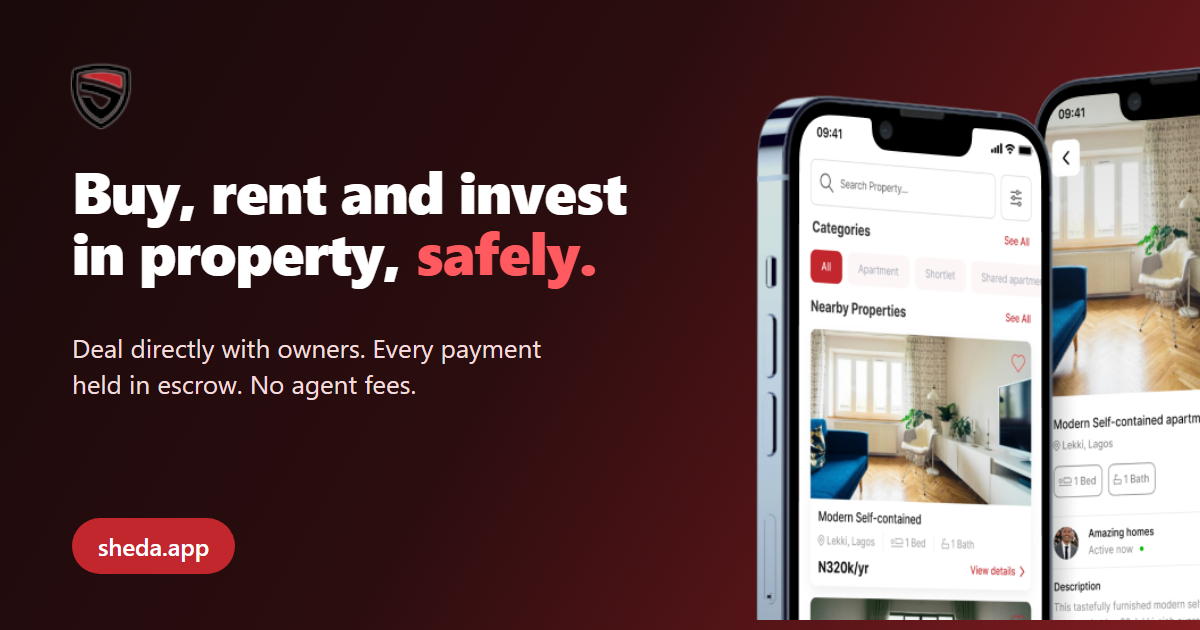
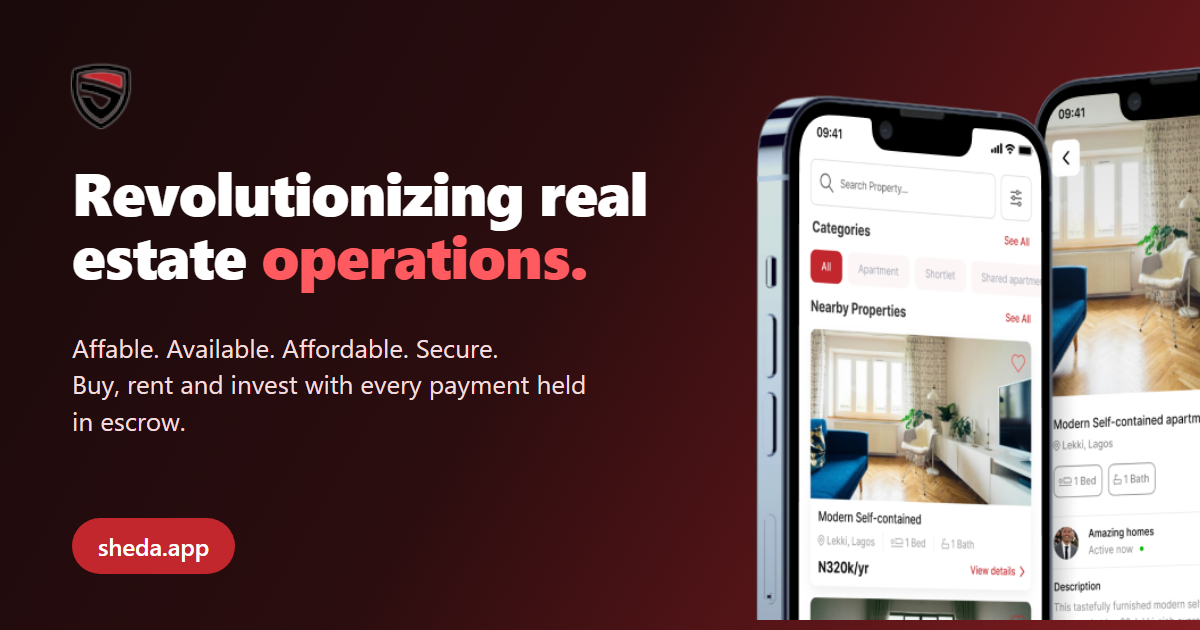
Restore Sheda's brand tagline and the Affable/Available/Affordable/Secure pillars

diff --git a/index.html b/index.html
@@ -15,16 +15,16 @@
     <meta property="og:type" content="website">
     <meta property="og:site_name" content="Sheda Solutions">
     <meta property="og:url" content="https://sheda.app/">
-    <meta property="og:title" content="Sheda | Buy, rent and invest in property, safely">
+    <meta property="og:title" content="Sheda Solutions | Revolutionizing real estate operations">
     <meta property="og:description" content="Deal directly with owners, pay through secure escrow, and own a share of new buildings. No agent fees.">
     <meta property="og:image" content="https://sheda.app/images/og-image.png">
     <meta property="og:image:width" content="1200">
     <meta property="og:image:height" content="630">
     <meta name="twitter:card" content="summary_large_image">
-    <meta name="twitter:title" content="Sheda | Buy, rent and invest in property, safely">
+    <meta name="twitter:title" content="Sheda Solutions | Revolutionizing real estate operations">
     <meta name="twitter:description" content="Deal directly with owners, pay through secure escrow, and own a share of new buildings. No agent fees.">
     <meta name="twitter:image" content="https://sheda.app/images/og-image.png">
-    <title>Sheda | Buy, rent and invest in property, safely</title>
+    <title>Sheda Solutions | Revolutionizing real estate operations</title>
     <link rel="stylesheet" href="/css/commonstyle.css">
     <link rel="stylesheet" href="/css/main2.css">
     <link rel="stylesheet" href="/css/forms.css">
@@ -81,7 +81,7 @@
             <div class="hero">
                 <!-- <div class="grid-background"></div> -->
                 <div class="frame48095733">
-                    <h1>Buy, rent and invest in property, safely</h1>
+                    <h1>Revolutionizing real estate operations</h1>
                     <p>Deal directly with owners and pay through secure escrow that only releases when the papers are yours.
                         No agent fees, no runaround. Or own a share of a new building and earn from the rent.</p>
                     <div id="image-container">
@@ -341,8 +341,8 @@
 
         <!-- Why Choose Sheda Solutions Section -->
         <section class="why-choose-section">
-            <span class="section-badge">Benefits</span>
-            <h2 class="section-title">Why people choose Sheda</h2>
+            <span class="section-badge">Why Sheda</span>
+            <h2 class="section-title">Affable. Available. Affordable. Secure.</h2>
 
             <div class="benefits-grid">
                 <!-- Left Column -->
@@ -358,7 +358,7 @@
                                     stroke-linejoin="round" />
                             </svg>
                         </div>
-                        <h3 class="benefit-title">Always with you</h3>
+                        <h3 class="benefit-title">Available</h3>
                         <p class="benefit-desc">Your deals and documents on any device, any time.</p>
                     </div>
 
@@ -395,7 +395,7 @@
                                 <rect x="14" y="14" width="7" height="7" rx="1.5" stroke="#C1272D" stroke-width="2" />
                             </svg>
                         </div>
-                        <h3 class="benefit-title">Easy to use</h3>
+                        <h3 class="benefit-title">Affable</h3>
                         <p class="benefit-desc">As easy as any app on your phone.</p>
                     </div>
 
@@ -529,7 +529,7 @@
                 </div>
 
                 <div class="info">
-                    <p>Property deals that are simple, affordable and safe, for everyone.</p>
+                    <p>Making real estate operations affable, affordable, available, and secure through blockchain.</p>
                 </div>
             </div>
             <div class="links">

diff --git a/about.html b/about.html
@@ -283,7 +283,7 @@
                 </div>
 
                 <div class="info">
-                    <p>Property deals that are simple, affordable and safe, for everyone.</p>
+                    <p>Making real estate operations affable, affordable, available, and secure through blockchain.</p>
                 </div>
             </div>
             <div class="links">

diff --git a/contact.html b/contact.html
@@ -199,7 +199,7 @@
                 </div>
 
                 <div class="info">
-                    <p>Property deals that are simple, affordable and safe, for everyone.</p>
+                    <p>Making real estate operations affable, affordable, available, and secure through blockchain.</p>
                 </div>
             </div>
             <div class="links">

diff --git a/inProgress.html b/inProgress.html
@@ -76,7 +76,7 @@
                 </div>
 
                 <div class="info">
-                    <p>Property deals that are simple, affordable and safe, for everyone.</p>
+                    <p>Making real estate operations affable, affordable, available, and secure through blockchain.</p>
                 </div>
             </div>
             <div class="links">

diff --git a/thankYou.html b/thankYou.html
@@ -73,7 +73,7 @@
                 </div>
 
                 <div class="info">
-                    <p>Property deals that are simple, affordable and safe, for everyone.</p>
+                    <p>Making real estate operations affable, affordable, available, and secure through blockchain.</p>
                 </div>
             </div>
             <div class="links">
